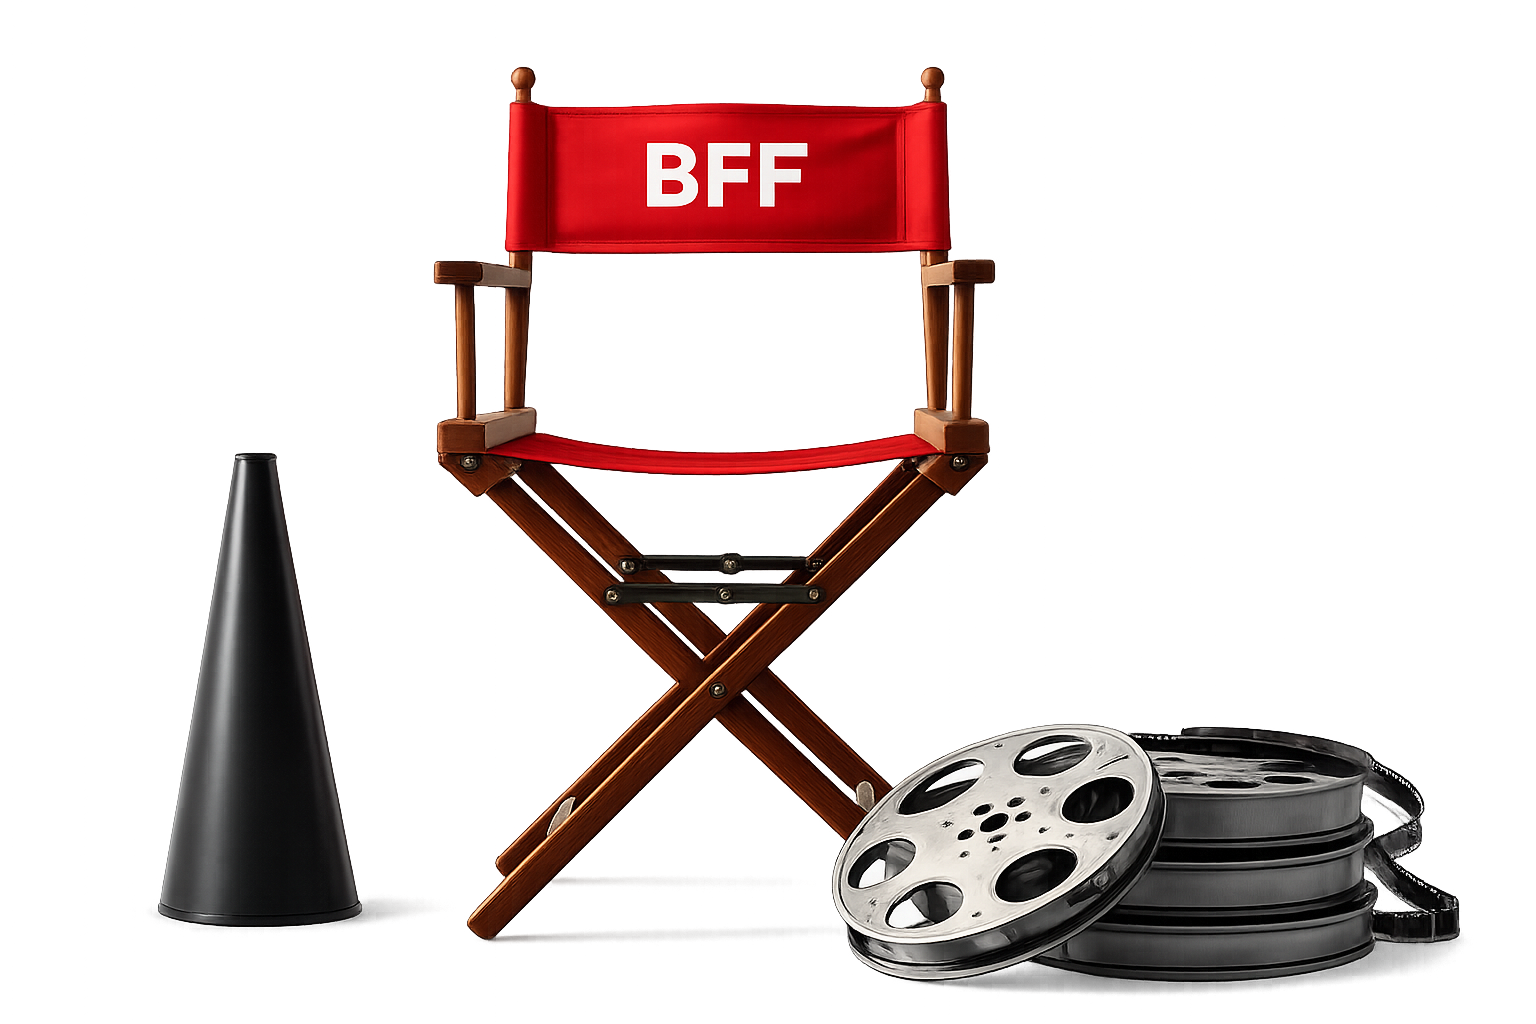
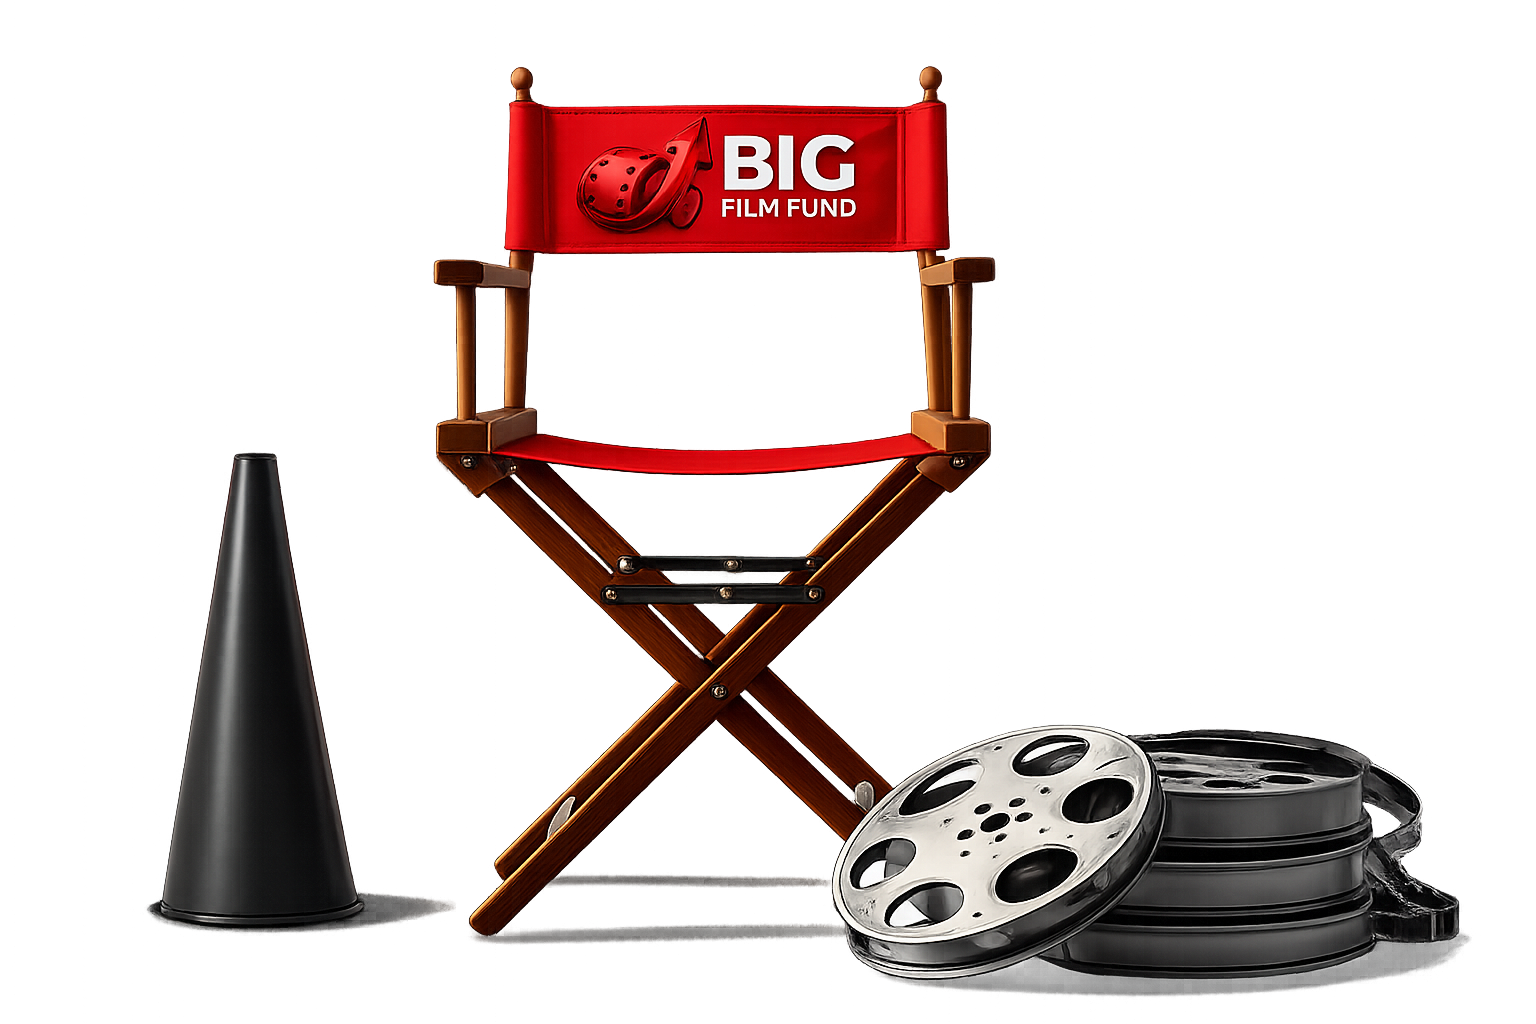
Update Opportunity image to 2nd.png and optimize navbar height

diff --git a/src/components/sections/Opportunity.tsx b/src/components/sections/Opportunity.tsx
@@ -63,16 +63,15 @@ export default function Opportunity({ onOpenWaitlist }: OpportunityProps) {
           whileInView={{ opacity: 1, scale: 1 }}
           viewport={{ once: true }}
           transition={{ duration: 1, ease: [0.16, 1, 0.3, 1] }}
-          className="lg:col-span-6 min-h-[350px] sm:min-h-[450px] lg:min-h-[600px] relative bg-gray-900 overflow-hidden group"
+          className="lg:col-span-6 min-h-[350px] sm:min-h-[450px] lg:min-h-[600px] relative bg-white overflow-hidden group flex items-center justify-center p-6 lg:p-12"
         >
           <Image
-            src="/images/pexels-felicity-tai-7964388.jpg"
-            alt="Cinematic Film Production Set with Director and Lighting"
+            src="/2nd.png"
+            alt="Big Film Fund Opportunity"
             fill
-            className="object-cover object-center transition-transform duration-1000 group-hover:scale-105"
+            className="object-contain object-center transition-transform duration-700 group-hover:scale-105"
             sizes="(max-width: 1024px) 100vw, 50vw"
           />
-          <div className="absolute inset-0 bg-gradient-to-r from-black/20 to-transparent pointer-events-none" />
         </motion.div>
 
       </div>

diff --git a/src/components/layout/Footer.tsx b/src/components/layout/Footer.tsx
@@ -30,9 +30,9 @@ export default function Footer() {
               <Image
                 src="/logo.png"
                 alt="Big Film Fund Logo"
-                width={240}
-                height={64}
-                className="h-10 sm:h-12 lg:h-14 w-auto object-contain"
+                width={320}
+                height={96}
+                className="h-14 sm:h-16 lg:h-20 w-auto object-contain"
               />
             </a>
 
